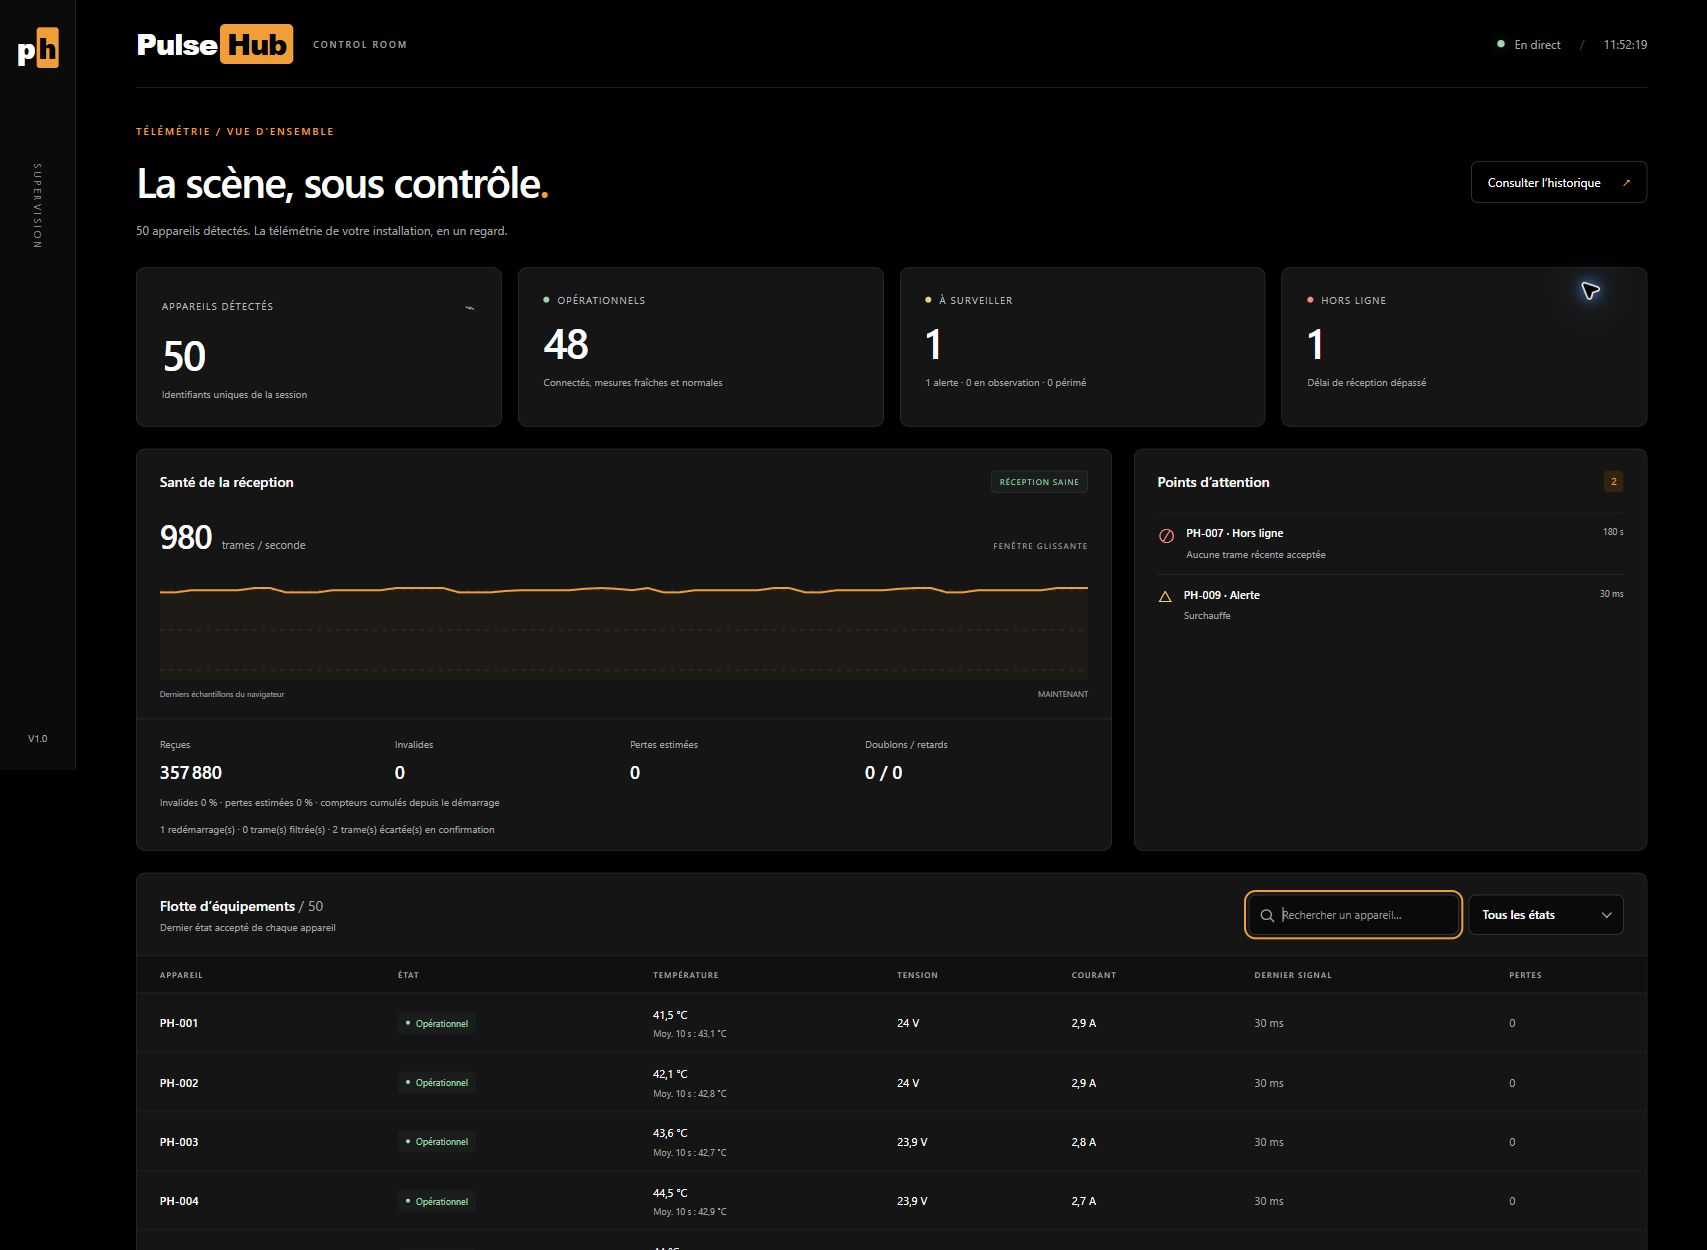
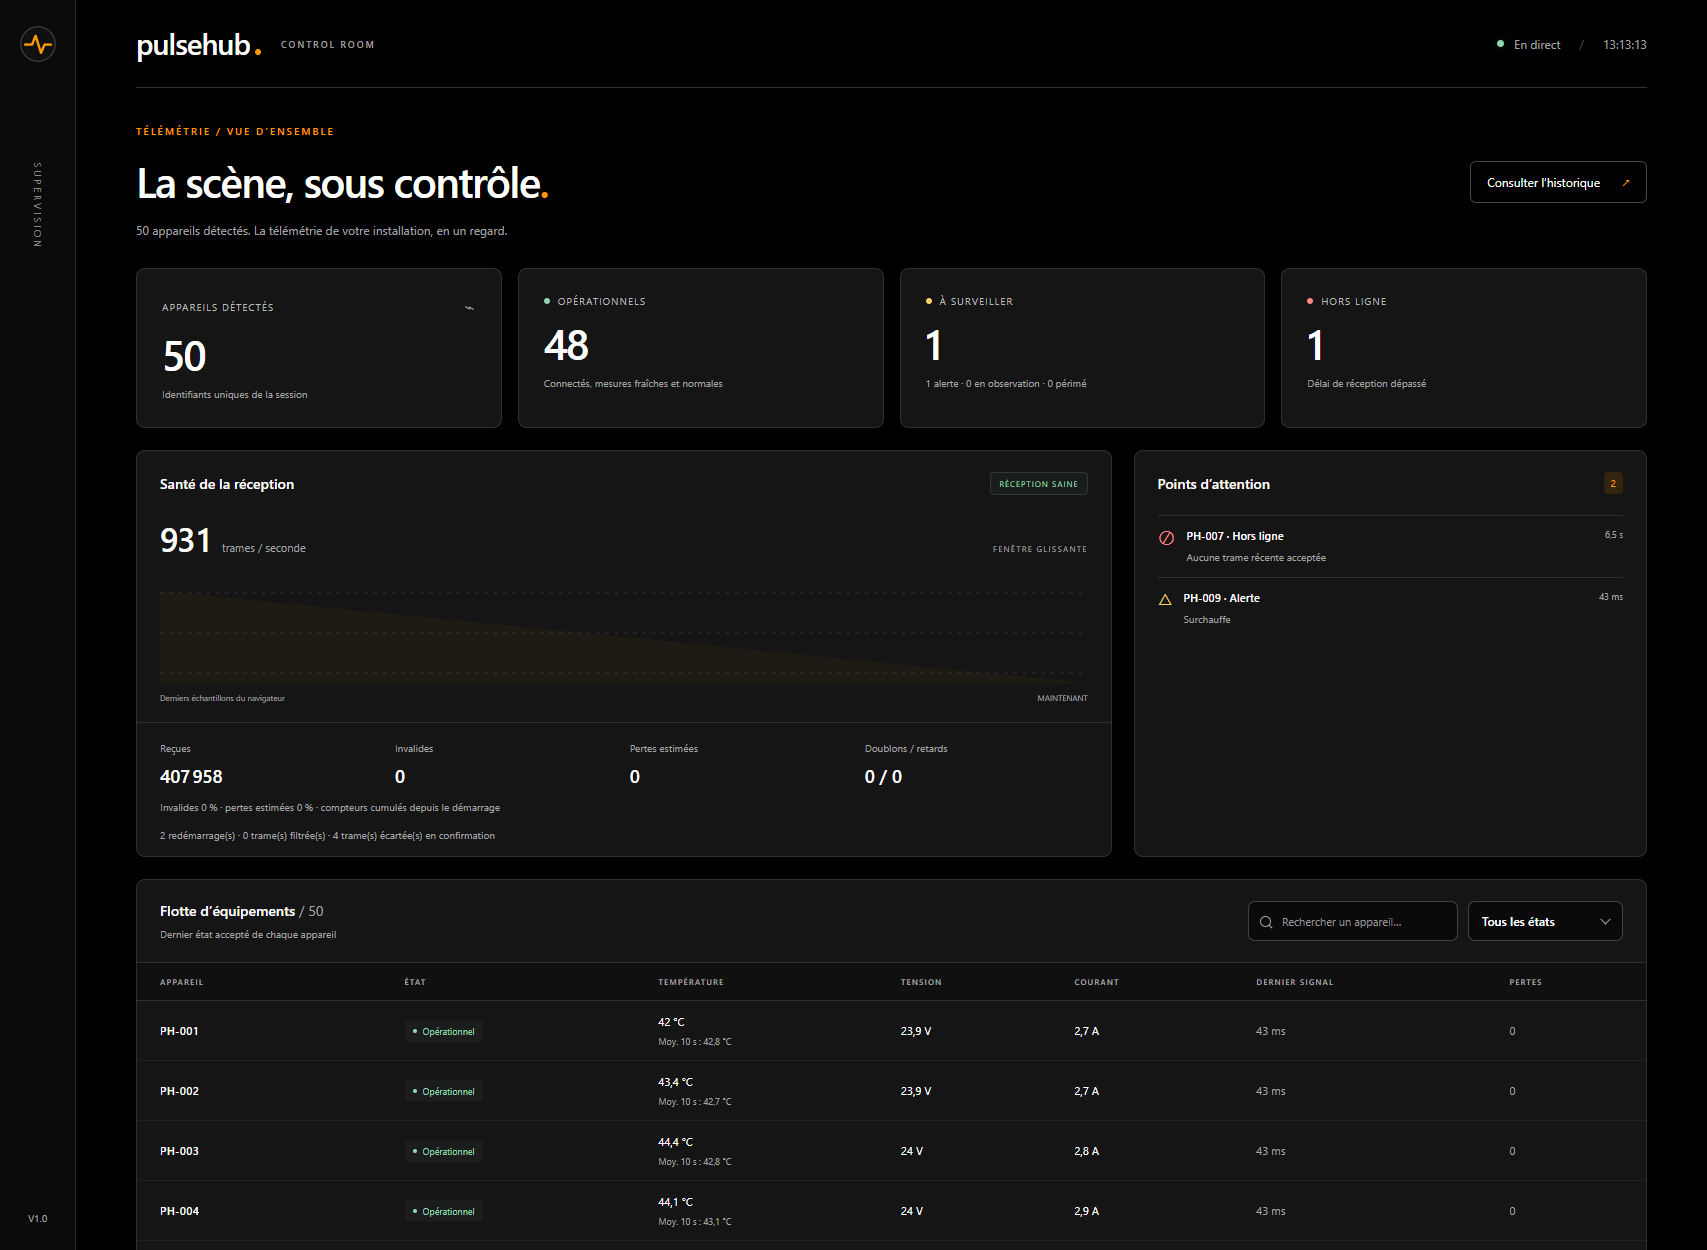
docs: explain time-based history and refresh web screenshots

diff --git a/README.md b/README.md
@@ -63,7 +63,7 @@ Les deux interfaces affichent **les données du même hub** et peuvent être ouv
 2. Ouvrir **http://127.0.0.1:3000**. Le hub fournit directement la page web, sans serveur front séparé.
 3. Lire le bandeau **En direct** : le navigateur reçoit une synthèse par SSE toutes les 500 ms par défaut. En cas de coupure, il indique **Déconnecté · données figées** et tente de se reconnecter.
 
-La capture en tête de ce README montre la démo interactive avec PH-009 en surchauffe et PH-007 hors ligne. Les chiffres varient pendant l’exécution. L’identité web associe noir `#000000`, orange `#ff9900` et blanc, avec « Hub » en cartouche orange. Les états gardent leurs couleurs et libellés dédiés pour distinguer fonctionnement normal, alerte et coupure.
+La capture en tête de ce README montre la démo interactive avec PH-009 en surchauffe et PH-007 hors ligne. Les chiffres varient pendant l’exécution. L’identité web associe noir `#000000`, orange `#ff9900` et blanc : le nom « pulsehub » s’écrit d’un seul tenant, accompagné d’un point orange et d’un symbole de signal circulaire. Les états gardent leurs couleurs et libellés dédiés pour distinguer fonctionnement normal, alerte et coupure.
 
 | Zone à l’écran | Comment la lire ou l’utiliser |
 | --- | --- |
@@ -72,17 +72,23 @@ La capture en tête de ce README montre la démo interactive avec PH-009 en surc
 | **Points d’attention** | Appareils nécessitant une vérification, avec les hors-ligne en priorité et le motif des alertes. |
 | **Flotte d’équipements** | Dernière température en °C, tension en V, courant en A, âge du signal et pertes de chaque appareil. Une ancienne mesure reste visible en grisé. Les agrégats configurés apparaissent sous les mesures, les redémarrages sous l’identifiant. |
 | **Rechercher un appareil / filtre d’état** | Saisir `009` ou `PH-009` pour isoler un appareil, ou choisir « À surveiller », « Opérationnels » ou « Hors ligne ». Ces filtres concernent la table ; les compteurs du haut restent ceux de la flotte entière. |
-| **Consulter l’historique** | Ouvrir le panneau, puis choisir une date dans « Instantané enregistré ». Le bandeau passe en **Lecture historique** ; table, compteurs et alertes affichent l’instant choisi. Cliquer **Revenir au direct** pour reprendre le suivi courant. |
+| **Consulter l’historique** | Choisir un jour dans le calendrier ou saisir `JJ/MM/AAAA`, régler `HH:MM:SS`, puis cliquer **Voir les mesures**. La frise permet aussi de parcourir la période conservée. Le tableau des mesures apparaît en premier ; **Revenir au direct** reprend le suivi courant. |
 
 **Exemple : retrouver un appareil redémarré.** Après 13 secondes de démo, rechercher `009`. La ligne PH-009 indique un redémarrage et une moyenne de température recalculée depuis sa nouvelle session. Dans la même démo, PH-007 devient hors ligne après son arrêt. Effacer la recherche pour retrouver toute la flotte.
 
 ![Recherche de PH-009 dans le navigateur, avec moyenne de température et redémarrage détecté](docs/web-device.png)
 
-L’historique est enregistré toutes les 5 secondes par défaut : patienter si aucun instantané n’est encore disponible. Consulter l’historique ne suspend pas la réception du hub. Sur un petit écran, faire défiler le tableau horizontalement pour accéder à toutes les colonnes.
+**Retrouver les mesures à un instant précis.** Le calendrier marque les jours avec des données. L’heure utilise le fuseau du navigateur, indiqué sous les champs. Les boutons **Dernier relevé**, **−1 min** et **−5 min** accélèrent la navigation ; **Actualiser** relit les dates disponibles. Les boutons de relevé précédent/suivant permettent de passer directement d’un enregistrement réel à l’autre.
 
-**Composants personnalisés.** Les menus d’état, d’historique et d’appareil utilisent le même composant, sans menu système. Ouvrir avec un clic, `Entrée`, `Espace` ou `↓`, parcourir avec `↑` / `↓` (`Début` / `Fin` pour les extrémités), puis valider avec `Entrée`. `Échap` annule et rend le focus au bouton ; `Tab` ferme le menu et poursuit la navigation. Un clic à l’extérieur ferme aussi le menu. Les listes longues proposent une recherche : saisir `009` dans l’atelier ou une heure dans l’historique. La croix de la recherche de flotte efface le filtre. Survoler une mesure ou sa moyenne affiche une infobulle personnalisée avec son âge ou sa fenêtre d’agrégation.
+![Calendrier, heure précise, frise de disponibilité et mesures historiques de PH-009](docs/web-history.png)
 
-Les composants partagés sont dans `public/ui.js` et `public/ui.css`, servis par les deux interfaces web. Les éléments `select` masqués conservent les valeurs et événements utilisés par les applications ; les boutons, listes et champs visibles portent les rôles et états ARIA. Sans JavaScript, le suivi en direct et les commandes ne fonctionnent pas.
+Le hub enregistre un instantané toutes les **5 secondes** par défaut. Il recherche donc le relevé le plus proche dans une tolérance de **±2,5 secondes** (la moitié de l’intervalle configuré). L’heure réelle du relevé, son décalage avec l’instant demandé et son fuseau UTC restent visibles : aucune interpolation. En cas d’égalité, le relevé le plus ancien gagne. Si aucun relevé n’est assez proche, le panneau indique **Aucune mesure disponible à cet instant** et masque les anciens résultats. Un instantané peut aussi exister sans aucune mesure reçue ; les anciennes valeurs périmées gardent leur indication de péremption.
+
+La consultation couvre **tous les instantanés encore présents dans les deux fichiers**, y compris ceux au-delà des 120 plus récents. Une rotation finit par supprimer les données anciennes. Les zones orange de la frise montrent la disponibilité et les interruptions restent vides. Consulter l’historique ne suspend pas la réception du hub. Sur un petit écran, faire défiler le tableau horizontalement pour accéder à toutes les colonnes.
+
+**Composants personnalisés.** Les menus d’état et d’appareil utilisent le même composant, sans menu système. Ouvrir avec un clic, `Entrée`, `Espace` ou `↓`, parcourir avec `↑` / `↓` (`Début` / `Fin` pour les extrémités), puis valider avec `Entrée`. `Échap` annule et rend le focus au bouton ; `Tab` ferme le menu et poursuit la navigation. Un clic à l’extérieur ferme aussi le menu. La liste d’appareils propose une recherche, par exemple `009` dans l’atelier. Le calendrier historique se parcourt au clavier avec les flèches, puis `Entrée` pour choisir le jour ; `Entrée` dans les champs lance la recherche. La frise se contrôle aussi avec les flèches. La croix de la recherche de flotte efface le filtre. Survoler une mesure ou sa moyenne affiche une infobulle personnalisée avec son âge ou sa fenêtre d’agrégation.
+
+Les composants partagés sont dans `public/ui.js` et `public/ui.css`, servis par les deux interfaces web. Le calendrier et la frise sont dans `public/history.js` et `public/history.css`. Les éléments `select` masqués conservent les valeurs et événements utilisés par les applications ; les boutons, listes et champs visibles portent les rôles et états ARIA. Sans JavaScript, le suivi en direct et les commandes ne fonctionnent pas.
 
 ### Tableau de bord terminal
 
@@ -267,7 +273,9 @@ Identité de comptage vérifiable : `reçues = acceptées + invalides + doublons
 
 ### Historique
 
-Cliquer « Consulter l’historique », puis sélectionner une date. Le tableau, les alertes et les compteurs affichent cet instantané ; « Revenir au direct » restaure le dernier état reçu. Les données survivent au redémarrage du hub. L’API `/api/history` fournit les 120 derniers instantanés des deux fichiers.
+Cliquer **Consulter l’historique**, puis choisir une date et une heure. Le tableau, les alertes et les compteurs affichent le relevé retrouvé ; **Revenir au direct** restaure le dernier état reçu. Les données survivent au redémarrage du hub.
+
+L’API `/api/history` conserve sa réponse en tableau des **120 derniers instantanés**, utilisée par le CLI. `/api/history/index` expose les dates de tous les relevés conservés, l’intervalle configuré et l’activation de l’historique. `/api/history?at=2026-10-30T12%3A00%3A00.000Z` recherche dans les deux fichiers : la réponse contient `entry` (ou `null` hors tolérance), `deltaMs` signé, `toleranceMs` et les dates voisines. La date doit être un instant ISO UTC valide, sinon l’API répond `400`. Les horodatages invalides et les lignes incomplètes sont ignorés. Une recherche sans résultat n’invente ni mesure ni plage de disponibilité.
 
 La persistance enregistre une synthèse toutes les 5 s et à l’arrêt propre. Elle conserve au maximum deux fichiers de 10 Mio chacun ; ce n’est pas un archivage intégral de concert. Une écriture peut être ignorée si la précédente n’est pas terminée ; les erreurs, succès et omissions sont visibles dans le pied de page ou le bandeau. Une ligne finale incomplète est ignorée à la lecture. Les fichiers `data/` ne sont pas versionnés. Exporter ces fichiers avant un événement suivant si une conservation longue est nécessaire.
 
@@ -302,7 +310,7 @@ Pas de revendication de conformité intégrale à SOLID : l’objectif est une s
 
 ## Qualité et validation
 
-Les 39 tests couvrent les trames de référence, les limites des entiers signés/non signés, les erreurs de structure, 10 000 datagrammes arbitraires déterministes, le séquencement, le wrap uint32, les seuils temporels, la fraîcheur par métrique, les heartbeats, l’arrêt d’un appareil, la capacité du registre, l’historique et sa rotation, les ports occupés, les API HTTP/SSE (dont la diffusion de grandes synthèses sans reconnexion), les **cinq défauts du simulateur sur de vrais sockets UDP**, les redémarrages avec protection contre un paquet isolé, les fenêtres glissantes, les filtres et l’ajout d’un type de traitement sans modification des étapes existantes. Les tests du CLI vérifient les dimensions du rendu, les filtres, la séparation des données live/figées/historiques, la suppression des séquences de contrôle et une lecture HTTP réelle via `--once`. Les tests de démo interactive vérifient les commandes, leur isolation par appareil, les refus des entrées invalides et la chaîne HTTP → UDP → état constaté par le hub.
+Les 43 tests couvrent les trames de référence, les limites des entiers signés/non signés, les erreurs de structure, 10 000 datagrammes arbitraires déterministes, le séquencement, le wrap uint32, les seuils temporels, la fraîcheur par métrique, les heartbeats, l’arrêt d’un appareil, la capacité du registre, l’historique et sa rotation, les ports occupés, les API HTTP/SSE (dont la diffusion de grandes synthèses sans reconnexion), les **cinq défauts du simulateur sur de vrais sockets UDP**, les redémarrages avec protection contre un paquet isolé, les fenêtres glissantes, les filtres et l’ajout d’un type de traitement sans modification des étapes existantes. Les tests du CLI vérifient les dimensions du rendu, les filtres, la séparation des données live/figées/historiques, la suppression des séquences de contrôle et une lecture HTTP réelle via `--once`. Les tests de démo interactive vérifient les commandes, leur isolation par appareil, les refus des entrées invalides et la chaîne HTTP → UDP → état constaté par le hub.
 
 La CI exécute `npm ci` puis `npm run check` à chaque push et pull request, sur Linux et Windows avec Node 22. Les contrôles manuels complémentaires sont décrits dans [docs/acceptation.md](docs/acceptation.md). L’interface a aussi été contrôlée avec un navigateur automatisé sur desktop et mobile ; la capture ci-dessus est issue de la vraie démo, pas d’un jeu de données factice.
 
@@ -357,7 +365,7 @@ Bonus implémentés : chaîne de traitement JSON extensible, alertes avec durée
 
 Le dépôt a été créé spécifiquement pour ce projet. L’historique contient des commits de progression réels : protocole, métier, application, validation et documentation. Aucun historique antidaté, aucun autre projet repris. `.gitignore` exclut dépendances, compilation, données de test et secrets. Le tag annoté `v1.0` identifie le rendu ; les workflows s’appliquent également au push de ce tag.
 
-Le tag `v1.0` a été actualisé avant remise pour inclure l’interface terminal, les guides illustrés, la démo interactive, les composants web personnalisés, le thème noir/orange commun au web et au CLI, ainsi que le diaporama de soutenance. Les versions précédentes restent consultables sous `v1.0-initial` (première version), `v1.0-before-cli` (avant le dashboard terminal), `v1.0-before-interactive` (avant les commandes de démo), `v1.0-before-custom-ui` (avant le thème et les menus web), `v1.0-before-cli-theme` (avant l’harmonisation des couleurs du terminal) et `v1.0-before-slides` (avant le diaporama). Le correcteur doit utiliser **`v1.0`**.
+Le tag `v1.0` a été actualisé avant remise pour inclure l’interface terminal, les guides illustrés, la démo interactive, les composants web personnalisés, le thème noir/orange, le diaporama et la recherche historique par date et heure. Les versions précédentes restent consultables sous `v1.0-initial` (première version), `v1.0-before-cli` (avant le dashboard terminal), `v1.0-before-interactive` (avant les commandes de démo), `v1.0-before-custom-ui` (avant le thème et les menus web), `v1.0-before-cli-theme` (avant l’harmonisation des couleurs du terminal), `v1.0-before-slides` (avant le diaporama) et `v1.0-before-history-ux` (avant le nouveau logo web et le calendrier historique). Le correcteur doit utiliser **`v1.0`**.
 
 ```sh
 git log --oneline --decorate

diff --git a/docs/soutenance.md b/docs/soutenance.md
@@ -14,6 +14,8 @@ Le [PowerPoint](presentation/PulseHub-soutenance.pptx) contient **12 diapositive
 
 La [version PDF](presentation/PulseHub-soutenance.pdf) reprend les diapositives pour une lecture ou une projection sans PowerPoint. Les notes orales restent dans le fichier PowerPoint. Les captures du web, de la démo et du moteur CLI montrent de vraies données du hub local, figées au moment de leur export.
 
+Pour montrer l’historique, ouvrir **Consulter l’historique**, choisir une date et une heure, puis **Voir les mesures**. Expliquer la granularité : un relevé toutes les 5 secondes, avec une recherche à ±2,5 secondes et un horodatage réel explicite. Choisir ensuite une date sans enregistrement pour montrer le message d’absence de données. La table historique affiche l’âge et la péremption au moment du relevé. La réception UDP continue pendant cette consultation.
+
 Le parcours proposé réserve **17 minutes à la présentation, dont 4 minutes de démo, puis 3 minutes aux questions**. Cette répartition est une proposition de préparation, pas une consigne supplémentaire du sujet. Les annexes sur le binaire, la chaîne JSON et les commandes servent seulement en cas de question.
 
 ## Parcours de 20 minutes
